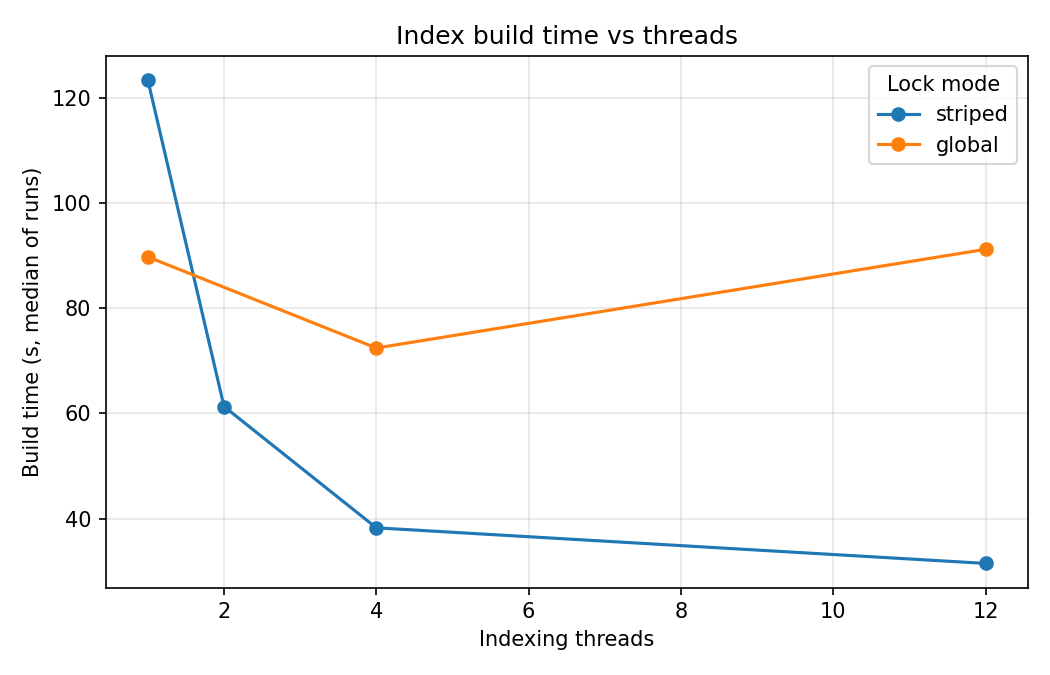
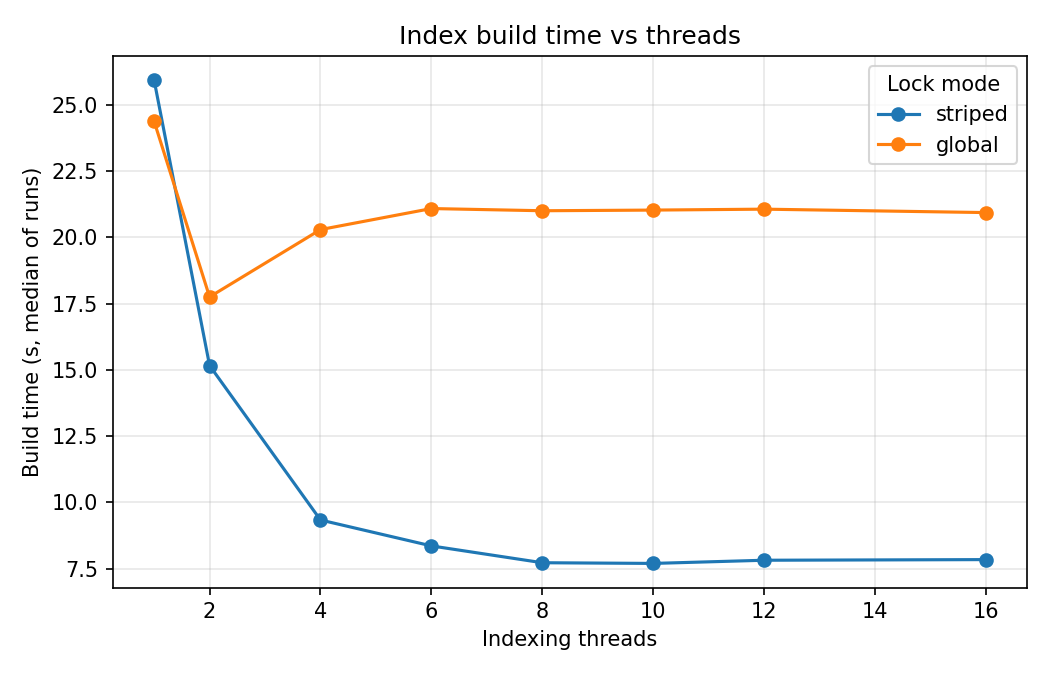
chore: rerun benchmarks on 20k-article dataset and update charts

diff --git a/docs/report/search-quality.md b/docs/report/search-quality.md
@@ -1,19 +1,19 @@
 # Якість пошуку
 
-Повний датасет (495 846 документів), `top_k = 3`. «Без» — `expand: false`, «З» — з розширенням запиту (`gemma4:e2b`).
+Повний датасет (20 300 документів: 20 000 статей Вікіпедії і 300 тестових), `top_k = 3`. «Без» — `expand: false`, «З» — з розширенням запиту (`gemma4:e2b`).
 
 | Запит | Очікувана тема | Топ-3 без розширення | Топ-3 з розширенням | Додані терміни |
 |---|---|---|---|---|
-| tallest mountain | найвищі гори | Central Mountain Range; List of tallest structures in Hungary; Big Bald Mountain | Rich Mountain (Georgia); Snake Range; Big Bald Mountain | highest, peak, summit, alpine, elevation, climax, zenith |
-| world war two battles | битви Другої світової | Battle of Sunchon (air); Battle; Japan campaign | Battle; Close combat; List of SPI games | conflict, battle, combat, history, military, fighting, era |
-| famous painter | відомі художники | Kamalolmolk (film); Polygnotos (vase painter); Pieter Post | Juan Bautista Martínez del Mazo; Brygos Painter; Max Shertz | artist, master, creator, figure, icon, genius, masterpiece |
-| heart disease | хвороби серця | National Wear Red Day; Coronary artery disease; World Heart Federation | Cardiology; Ultrasound-enhanced systemic thrombolysis; List of MeSH codes (C14) | cardiac, illness, condition, myocardial, arrhythmia, stroke |
-| solar system planets | планети Сонячної системи | Small Solar System body; Formation and evolution of the Solar System; Hypothetical astronomical object | IAU definition of planet; Clearing the neighbourhood; Hypothetical astronomical object | celestial, worlds, orbit, astronomy, spheres |
-| football world cup | футбол, чемпіонат світу | Timeline of association football; Vanuatu Football Federation; Thailand women's national football team | Powerchair Football; Sports table football; Soccer in Australia | soccer, tournament, match, competition, global, sport, event, game |
-| electric car | електромобілі | Wally Rippel; Bushbury Electric; Chelsea Sexton | MIEV; Heibao Auto; Who Killed the Electric Car? | ev, automobile, vehicle, battery, transport, mobility |
-| ancient roman emperor | римські імператори | Daco-Roman; Philip II (Roman emperor); Marcianopolis | Marcus Ulpius Traianus (father of Trajan); Matidia Minor; Julii Caesares | caesar, augustus, trajan, hadrian, nero, antonine, imperial |
-| jazz musician | джазові музиканти | Chamber jazz; Chase Sanborn; Eva Kurowski | Jazz improvisation; Gypsy jazz; Hank Penny | performer, artist, improviser, swing, rhythm, sound |
-| programming language | мови програмування | Outline of computer programming; The C++ Programming Language; Little b (programming language) | Outline of computer programming; Compiler; Computer programming | code, script, syntax, software, compilation, algorithm, development |
+| tallest mountain | найвищі гори | Billings, Montana; Tourism in Tamil Nadu; Forests Commission Victoria | Olympic Mountains; Mount Everest; Grand Teton National Park | highest, peak, summit, alpine, elevation, climax, zenith |
+| world war two battles | битви Другої світової | Naval warfare; Battle of the Somme; Bhishma Parva | Military history; Naval warfare; Military history of Japan | conflict, battle, combat, history, military, fighting, era |
+| famous painter | відомі художники | List of people from Italy; List of people from Southern Italy; List of Welsh people | List of people from Italy; James McNeill Whistler; List of people from Southern Italy | artist, master, creator, figure, icon, genius, masterpiece |
+| heart disease | хвороби серця | Outline of cardiology; Cardiovascular disease in women; Atrial fibrillation | Outline of cardiology; Cardiovascular disease in women; Myocardial infarction | cardiac, illness, condition, myocardial, arrhythmia, stroke |
+| solar system planets | планети Сонячної системи | Formation and evolution of the Solar System; History of Solar System formation and evolution hypotheses; Jumping-Jupiter scenario | Timeline of Solar System astronomy; Heliocentrism; Astronomy | celestial, worlds, orbit, astronomy, spheres |
+| football world cup | футбол, чемпіонат світу | Timeline of association football; Timeline of Scottish football; Double (association football) | Football in South America; List of 2023 FIFA Women's World Cup controversies; Sky Sports | soccer, tournament, match, competition, global, sport, event, game |
+| electric car | електромобілі | Plug-in electric vehicles in Norway; Plug-in electric vehicle; Electric car use by country | Electric vehicle charging network; Government incentives for plug-in electric vehicles; Electric car use by country | ev, automobile, vehicle, battery, transport, mobility |
+| ancient roman emperor | римські імператори | Succession to the Byzantine Empire; Culture of ancient Rome; Roman Cyprus | History of the Roman Empire; Roman Cyprus; Imperial Roman army | caesar, augustus, trajan, hadrian, nero, antonine, imperial |
+| jazz musician | джазові музиканти | List of Canadian musicians; Bix Beiderbecke; Al (given name) | List of Canadian musicians; Timeline of music in the United States (1920–1949); Glossary of jazz and popular music | performer, artist, improviser, swing, rhythm, sound |
+| programming language | мови програмування | List of programming languages by type; Computer program; List of United States over-the-air television networks | C++; Computer program; C++11 | code, script, syntax, software, compilation, algorithm, development |
 
-Розширення додає синоніми й пов'язані слова та часто підіймає тематично точніші статті (heart disease, jazz musician, ancient roman emperor), але інколи зсуває результат убік (football world cup).
-Пошук без розширення займає 16–2000 мс, з розширенням близько 1 с (0,9–1,8 с для «ocean») після завантаження моделі; перший запит після старту ≈ 15–20 с. Ollama обмежено продуктивними ядрами (`OLLAMA_NUM_THREAD=4`).
+Розширення додає синоніми й пов'язані слова та часто прибирає випадкові збіги (tallest mountain: замість статей про місто й туризм — Mount Everest; programming language: зникає список телемереж), але інколи зсуває результат убік (football world cup — Sky Sports).
+Пошук без розширення займає 1–6 мс, з розширенням близько 0,8–1,2 с після завантаження моделі; перший запит після старту ≈ 15–20 с. Ollama обмежено продуктивними ядрами (`OLLAMA_NUM_THREAD=4`).

diff --git a/README.md b/README.md
@@ -116,17 +116,17 @@ curl -XPOST localhost:8080/api/index -H 'content-type: application/json' -d '{"t
 
 ## Масштабованість
 
-Вимірювання: 495 846 документів, 10 ядер, Docker (`bench/results/*.csv`, графіки будує `scripts/plot.py`).
+Вимірювання: 20 300 документів (~1,2 ГБ), 10 ядер, Docker, медіана з 3 запусків (`bench/results/*.csv`, графіки будує `scripts/plot.py`).
 
 ![Час побудови індексу](docs/report/build_time_vs_threads.png)
 ![Прискорення](docs/report/speedup.png)
 ![Пропускна здатність](docs/report/throughput_vs_clients.png)
 ![Затримка](docs/report/latency_vs_clients.png)
 
-- Побудова індексу (striped): 123 с (1 потік) → 38 с (4 потоки) → 31 с (12 потоків), прискорення ~3,9×; після ~4 потоків приріст малий: читання ~495 тис. малих файлів через файлове спільне використання Docker і алокації/GC.
-- З глобальним м'ютексом: 90 с (1 потік) → 72 с (4 потоки) → 91 с (12 потоків) — потоки чекають на один м'ютекс, тому більше потоків не допомагає.
-- Пошук (без розширення): 369 запитів/с (1 клієнт) → ~880 запитів/с (8+ клієнтів), далі пропускна здатність не росте, а затримка зростає (обмеження — CPU).
-- З розширенням запиту (LLM) ~1,1 запиту/с: модель обробляє запити по одному, тому більше клієнтів лише збільшує затримку.
+- Побудова індексу (striped): 25,9 с (1 потік) → 9,3 с (4 потоки) → 7,7 с (8 потоків), прискорення ~3,4×; після 8 потоків (кількість ядер) приріст зникає: обмеження — читання файлів через файлове спільне використання Docker, алокації/GC і повільніші efficiency-ядра.
+- З глобальним м'ютексом: 24,4 с (1 потік) → 17,8 с (2 потоки) → 21 с (8–16 потоків) — усі вставки чекають на один м'ютекс, тому понад 2 потоки лише додають конкуренцію.
+- Пошук (без розширення): 697 запитів/с (1 клієнт) → ~1340 запитів/с (8 клієнтів) → ~1470 запитів/с (32–64 клієнти); далі пропускна здатність не росте, а затримка зростає (обмеження — CPU).
+- З розширенням запиту (LLM) ~1,2 запиту/с: модель обробляє запити по одному, тому більше клієнтів лише збільшує затримку (p50 0,9 с для 1 клієнта, 7 с для 8).
 - Розширення запиту займає близько 1 с після завантаження моделі (перший запит ≈ 15–20 с); для цього `OLLAMA_NUM_THREAD` має дорівнювати кількості продуктивних ядер (на Apple M4 — 4).
 
 Якість пошуку: [docs/report/search-quality.md](docs/report/search-quality.md).
